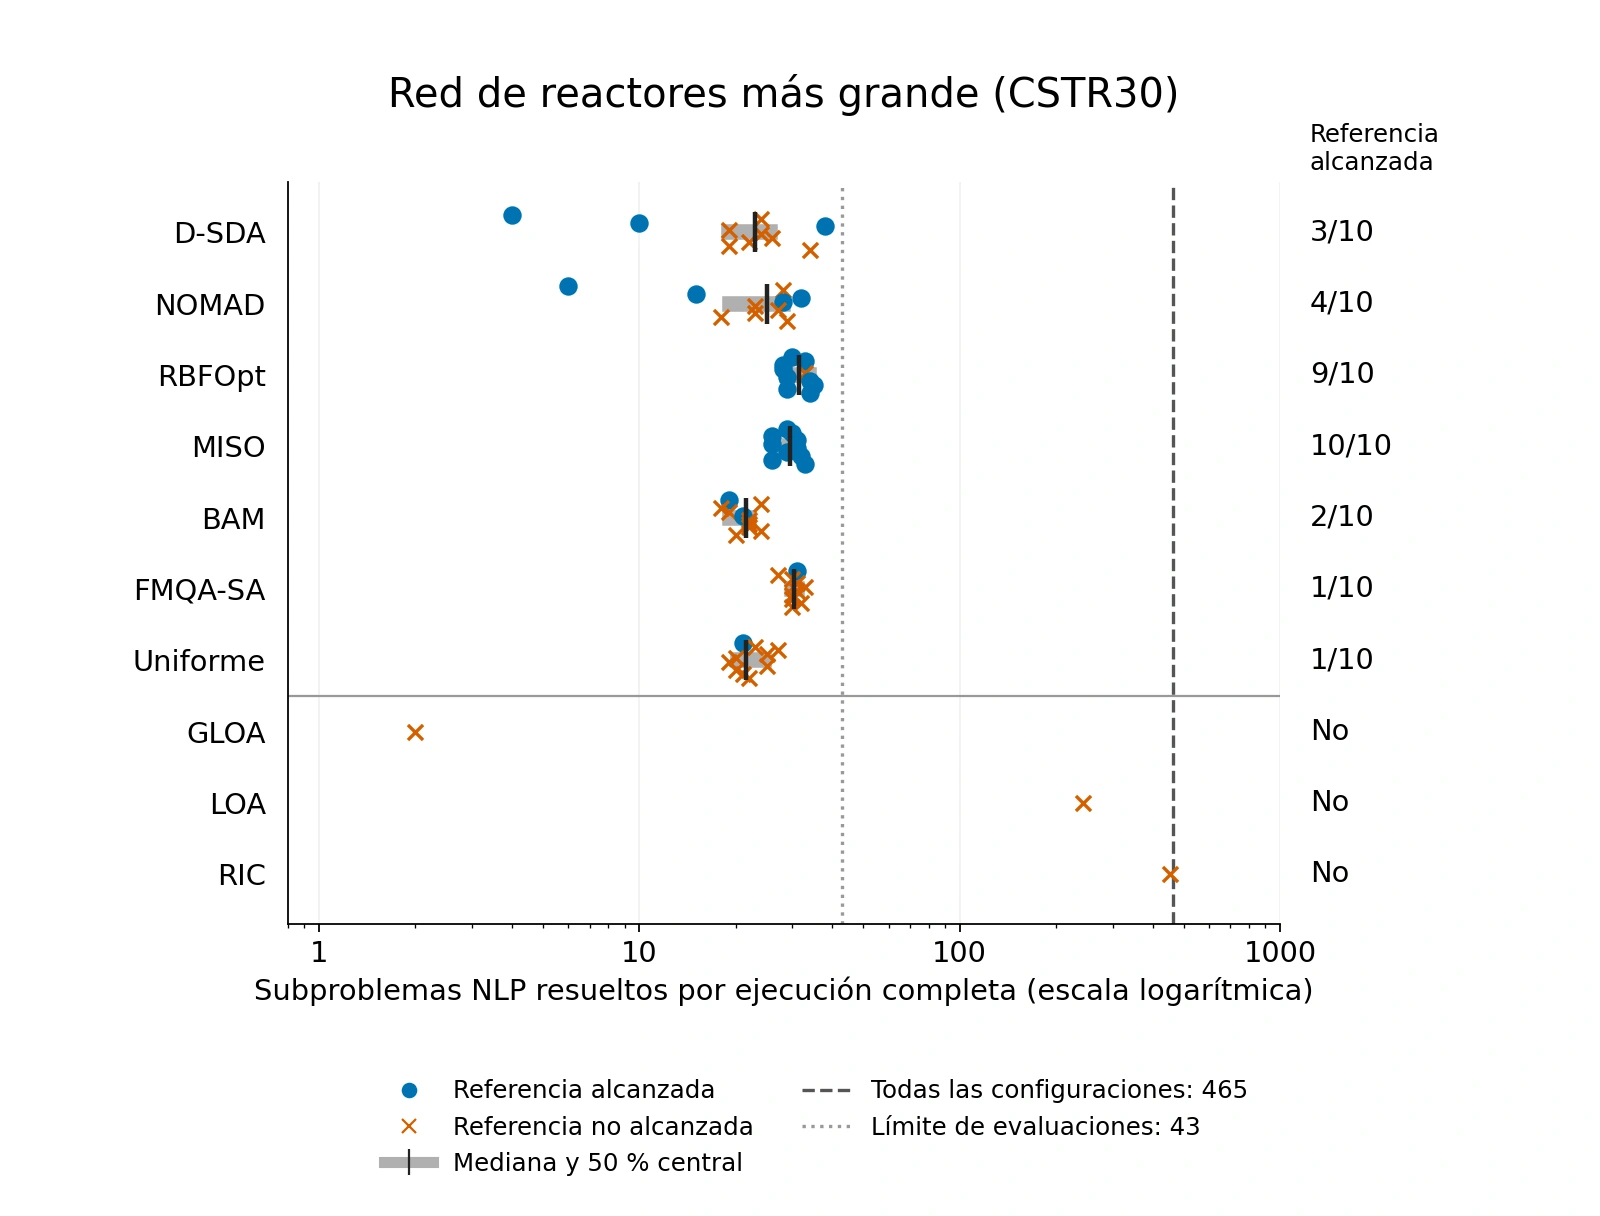
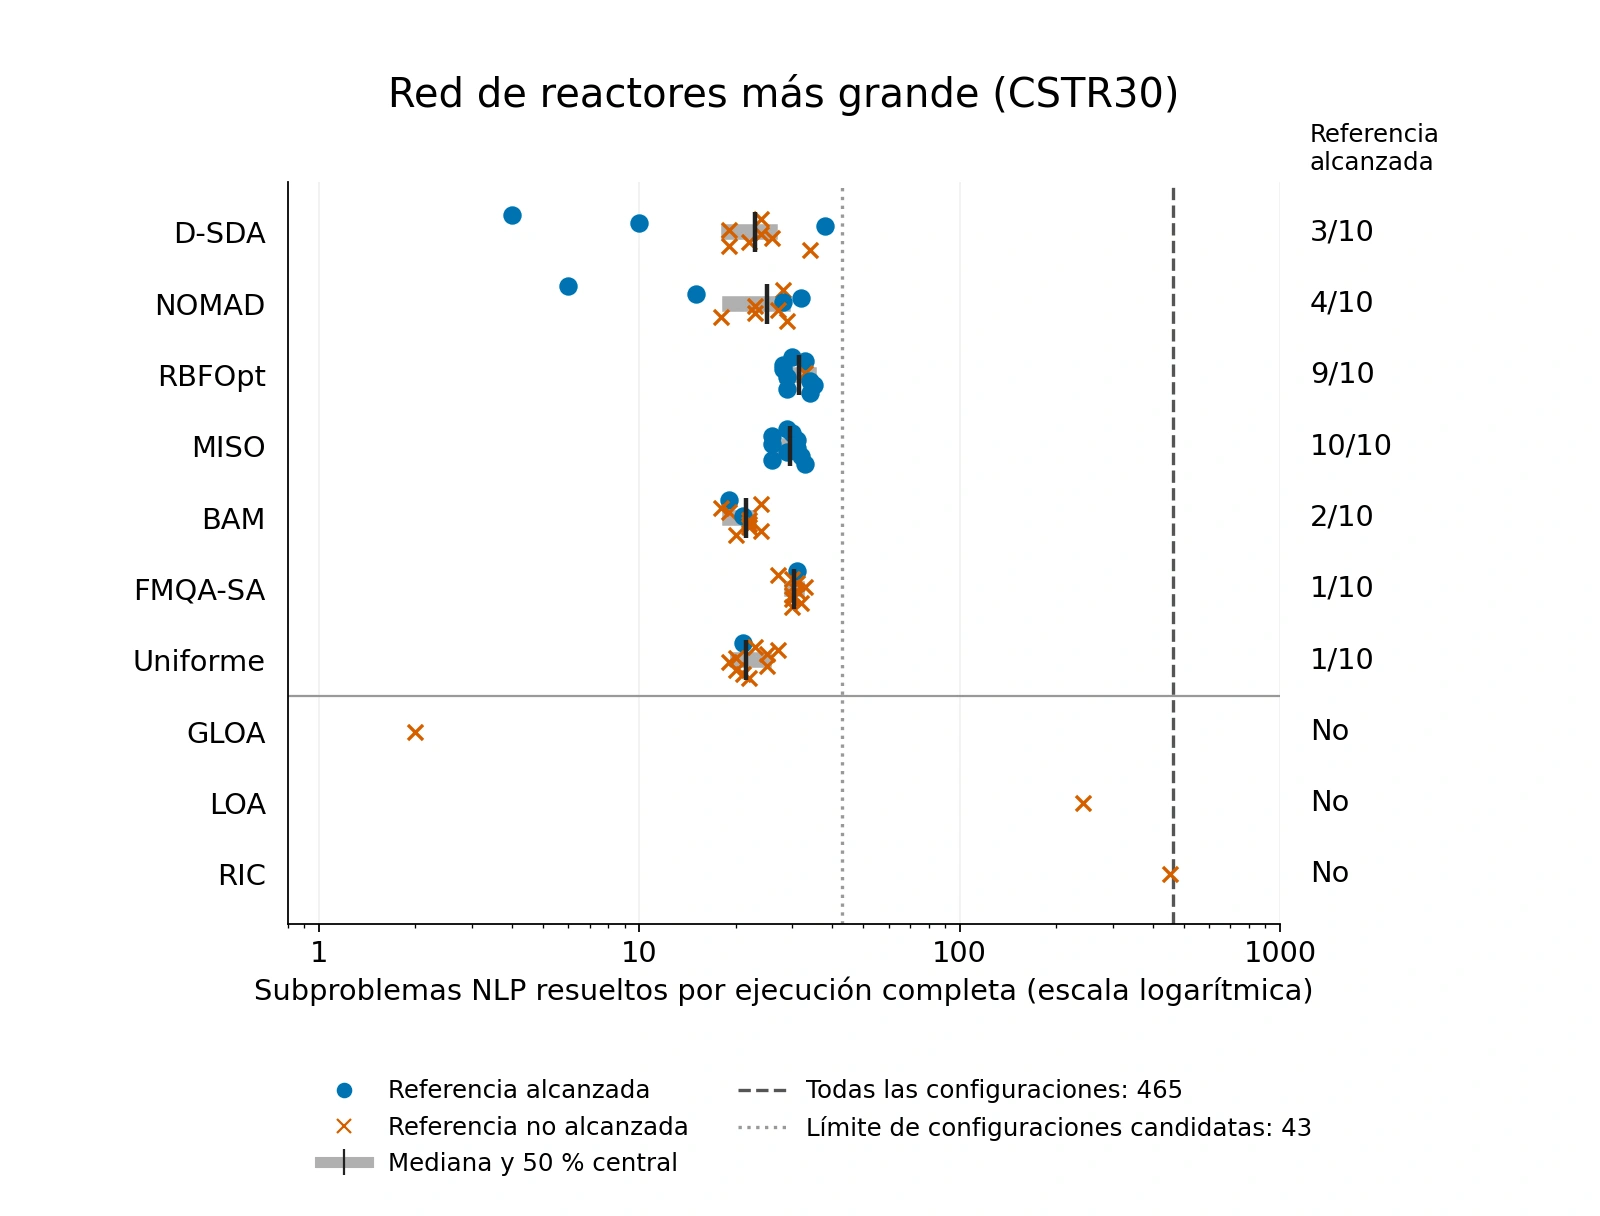
Address Korean title review and refine CSTR30 figure captions/legends

Changed region(s): [[0.1875, 0.875, 0.4688, 0.9688], [0.5, 0.875, 0.8125, 0.9375], [0.1875, 0.875, 0.2188, 0.9062]]

diff --git a/scripts/render_gdp_results.py b/scripts/render_gdp_results.py
@@ -40,15 +40,15 @@ TEXT = {
         "outcomes": "Referencia\nalcanzada",
         "hit": "Referencia alcanzada", "miss": "Referencia no alcanzada",
         "spread": "Mediana y 50 % central", "all": "Todas las configuraciones: 465",
-        "budget": "Límite de evaluaciones: 43", "no": "No", "uniform": "Uniforme",
+        "budget": "Límite de configuraciones candidatas: 43", "no": "No", "uniform": "Uniforme",
     },
     "ko": {
         "title": "가장 큰 반응기 네트워크 (CSTR30)",
         "axis": "완료된 실행별 NLP 하위 문제 풀이 횟수 (로그 척도)",
         "outcomes": "기준값\n도달",
         "hit": "기준값 도달", "miss": "기준값 미도달",
-        "spread": "중앙값과 가운데 50%", "all": "전체 구성 평가: 465",
-        "budget": "구성 평가 예산: 43", "no": "미도달", "uniform": "균등 추출",
+        "spread": "중앙값과 중앙 50%", "all": "전체 구성 평가: 465",
+        "budget": "후보 구성 수 한도: 43", "no": "미도달", "uniform": "균등 추출",
     },
 }
 

diff --git a/scripts/render_gdp_blog_assets.py b/scripts/render_gdp_blog_assets.py
@@ -85,7 +85,7 @@ def main():
         family = "Noto Sans CJK KR" if language == "ko" else "DejaVu Sans Condensed"
         font_file = args.korean_font if language == "ko" else Path("/usr/share/fonts/truetype/dejavu/DejaVuSansCondensed.ttf")
         font = lambda size: ImageFont.truetype(str(font_file), size)
-        title = wrap(meta["title"], font(52), 600 if language == "ko" else 670)
+        title = wrap(meta["title"], font(52), 550 if language == "ko" else 670)
         if len(title) > 5:
             raise ValueError(f"{language}: cover title needs more than five lines")
         content = text_lines(["SECQUOIA  /  PURDUE"], 55, 70, 23, family, GOLD)

diff --git a/articles/gdp-configuration-search/es.md b/articles/gdp-configuration-search/es.md
@@ -128,7 +128,7 @@ Así podían probar diseños a los que el descenso local no llegaría mediante u
     <img src="{{ '/assets/images/gdp-configuration-search/cstr30-results-es.webp' | relative_url }}" alt="Comparación en escala logarítmica del número total de subproblemas NLP resueltos para CSTR30. RBFOpt alcanza el valor de referencia en 9 de 10 ejecuciones y MISO en las 10, con medianas cercanas a 30 subproblemas resueltos, frente a los 465 necesarios para la enumeración." width="1600" height="1216" loading="lazy" decoding="async">
   </a>
   <figcaption><strong>Figura 2.</strong> Red de reactores más grande (CSTR30), adaptada del artículo.
-  Cada marcador muestra el número total de subproblemas NLP resueltos en una ejecución completada.
+  Cada marcador muestra el número total de subproblemas de programación no lineal (NLP) resueltos en una ejecución completada.
   RBFOpt y MISO alcanzan el valor de referencia en nueve y diez de diez ejecuciones, respectivamente, con medianas de 31.5 y 29.5 subproblemas resueltos; evaluar todas las configuraciones admisibles requiere resolver 465.
   Las siete filas superiores tienen diez ejecuciones cada una; las tres filas inferiores de GDPopt tienen una ejecución cada una.
   Las barras grises muestran el 50% central, con una marca negra para la mediana.
@@ -158,7 +158,7 @@ El modelo GDP completo contiene 100,947 configuraciones.
 Realizamos la búsqueda en un dominio restringido con 54,159 configuraciones admisibles, lo suficientemente grande como para que evaluar cada diseño siguiera siendo costoso.
 
 Con un presupuesto de 100 evaluaciones, D-SDA y MISO alcanzaron cada uno el mejor diseño conocido en tres de las diez ejecuciones.
-Las coincidencias exactas fueron poco frecuentes, pero muchas ejecuciones terminaron cerca.
+Alcanzar esa referencia fue poco frecuente, pero muchas ejecuciones terminaron cerca.
 Las medianas de los resultados de D-SDA, NOMAD y MISO quedaron dentro de un margen del 0.14% respecto del mejor valor conocido de la función objetivo tras evaluar aproximadamente el 0.2% del dominio de búsqueda.
 
 El descenso local fue competitivo en este caso.
@@ -189,7 +189,7 @@ Para categorías como los tipos de reactores, el orden asignado puede ser arbitr
 Reordenar esas alternativas cambió el comportamiento de varios métodos en los experimentos de lomustina.
 Por lo tanto, al comparar métodos de búsqueda se debe revisar el orden de las alternativas categóricas.
 
-El número de ejecuciones que alcanzan exactamente un valor de referencia de la función objetivo es solo una medida del desempeño.
+El número de ejecuciones que alcanzan un valor de referencia de la función objetivo es solo una medida del desempeño.
 Un método puede no alcanzar un objetivo estricto y, aun así, producir de manera consistente diseños lo suficientemente cercanos para un estudio de ingeniería.
 La comparación de métodos debe incluir la calidad y la variabilidad de sus diseños finales, el número de evaluaciones y el costo computacional total.
 

diff --git a/_posts/2026-11-07-gdp-configuration-search.md b/_posts/2026-11-07-gdp-configuration-search.md
@@ -126,7 +126,7 @@ They could therefore test designs that local descent would not reach through a s
     <img src="{{ '/assets/images/gdp-configuration-search/cstr30-results-en.webp' | relative_url }}" alt="Log-scale comparison of total NLP solves for CSTR30. RBFOpt reaches the reference in 9 of 10 runs and MISO in all 10, with median workloads near 30 solves, compared with 465 for enumeration." width="1600" height="1216" loading="lazy" decoding="async">
   </a>
   <figcaption><strong>Figure 2.</strong> Largest reactor network (CSTR30), adapted from the paper.
-  Each marker shows the total NLP subproblems solved in a completed run.
+  Each marker shows the total nonlinear programming (NLP) subproblems solved in a completed run.
   RBFOpt and MISO reach the reference in nine and ten of ten runs, with median workloads of 31.5 and 29.5 solves; evaluating every admissible configuration requires 465.
   The upper seven rows have ten runs each; the bottom three GDPopt rows have one run each.
   Gray bars show the middle 50%, with a black median tick.
@@ -156,7 +156,7 @@ The full GDP model contains 100,947 configurations.
 We searched a restricted domain containing 54,159 admissible configurations, large enough that evaluating every design would remain expensive.
 
 With a budget of 100 evaluations, D-SDA and MISO each reached the best known design in three of ten runs.
-Exact matches were uncommon, but many runs finished close.
+Reaching that reference was uncommon, but many runs finished close.
 The median results of D-SDA, NOMAD, and MISO were within 0.14% of the best known objective after evaluating about 0.2% of the search domain.
 
 Local descent was competitive here.
@@ -187,7 +187,7 @@ For categories such as reactor types, the assigned order can be arbitrary.
 Reordering those alternatives changed the behavior of several methods in the lomustine experiments.
 The ordering of categorical choices should therefore be checked when comparing search methods.
 
-The number of runs that match a reference objective exactly is only one measure of performance.
+The number of runs that reach a reference objective is only one measure of performance.
 A method can miss a strict target while consistently producing designs close enough for an engineering study.
 Comparing methods should include the quality and variability of their final designs, their evaluation counts, and their total computational cost.
 
